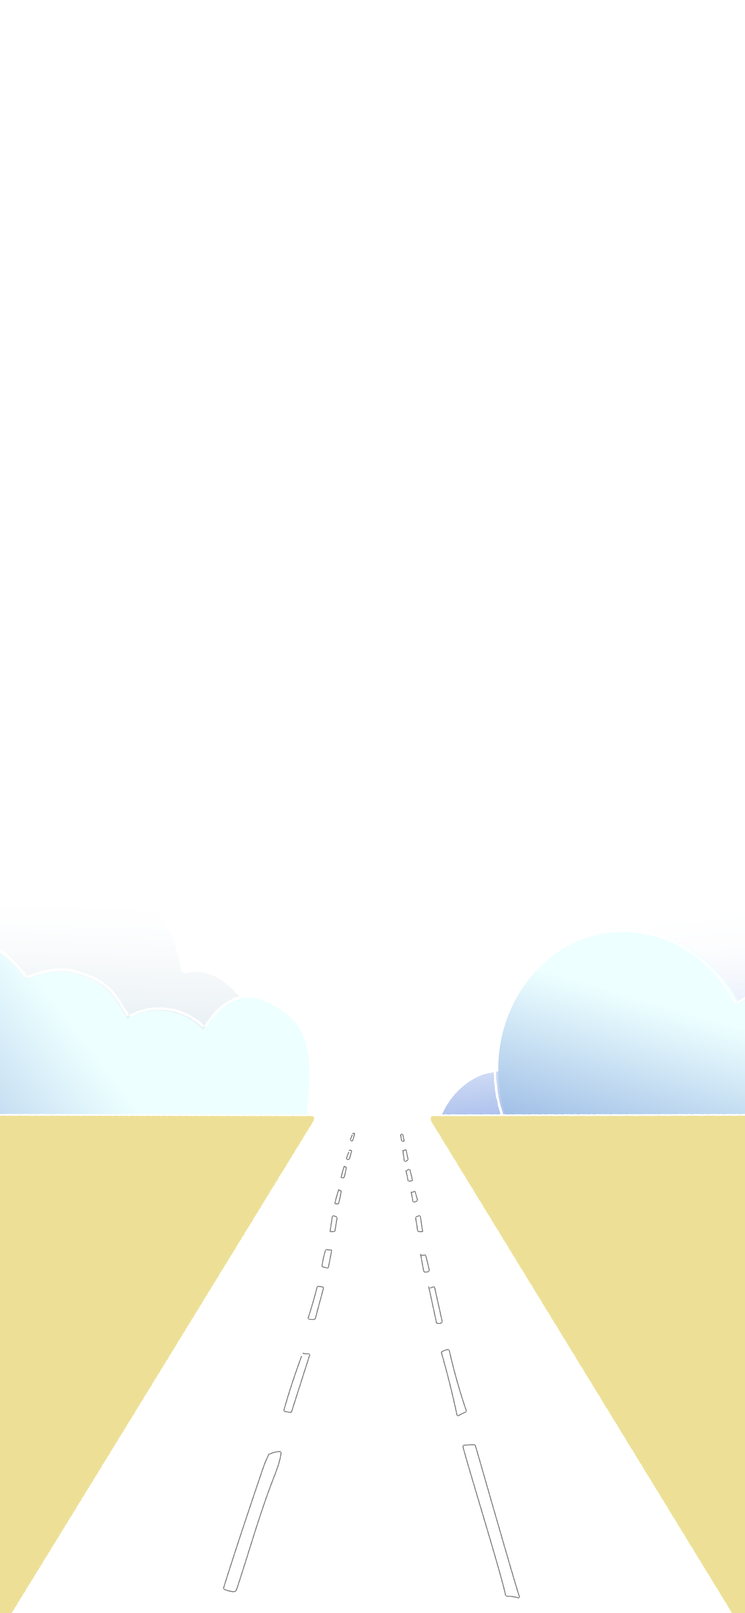
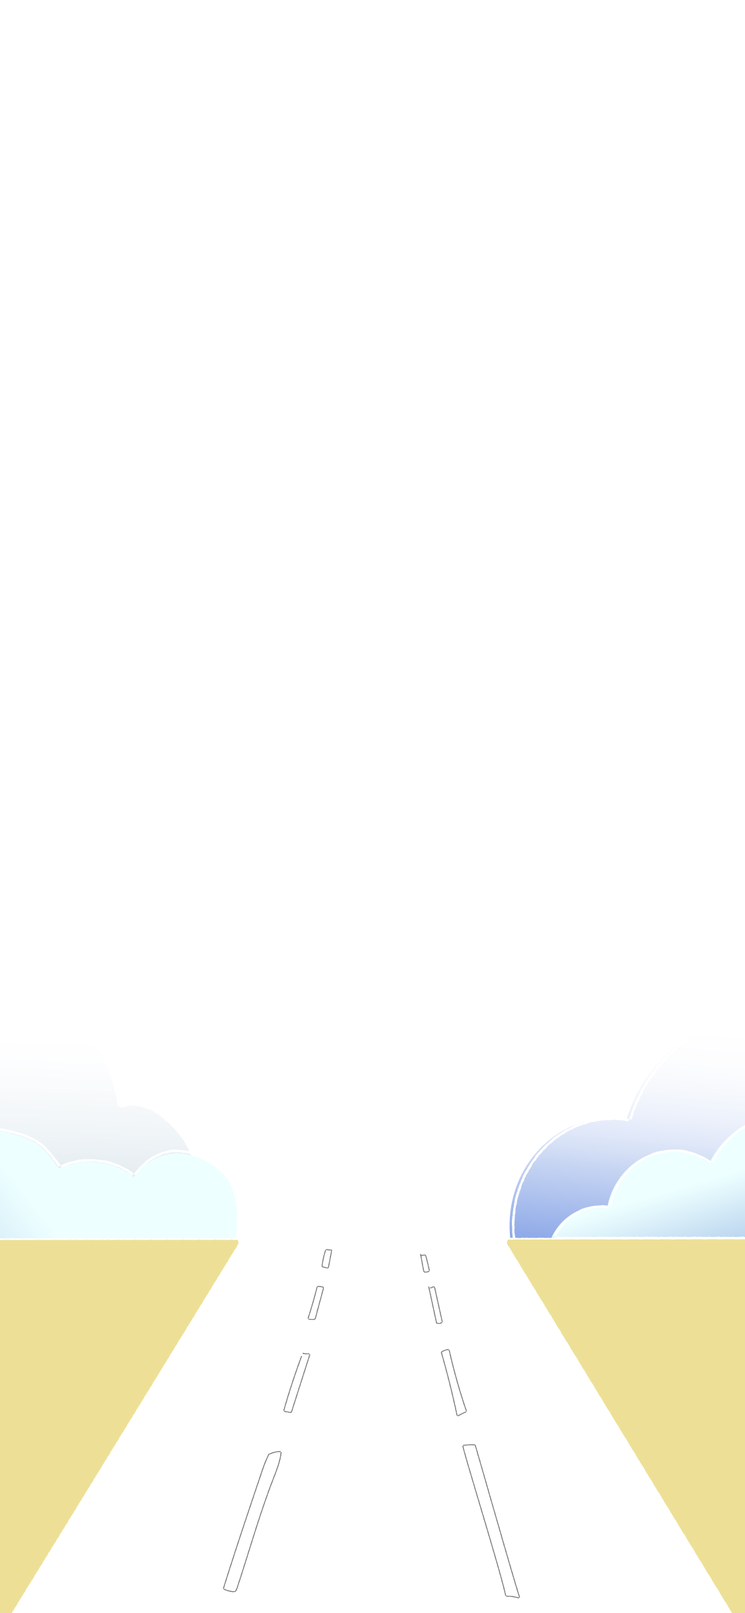
no message

Changed region(s): [[0.56, 0.5928, 1.0, 0.78], [0.0, 0.5928, 0.4356, 0.78]]

diff --git a/assets/css/style.min.css b/assets/css/style.min.css
@@ -1,2 +1,2 @@
-html,body{height:100%;min-height:100%}body{font-family:'roboto', 'Noto Sans TC', sans-serif;font-weight:400;font-style:normal;line-height:1.75;color:#222;background-color:#FFFDF0;overflow-x:hidden;padding-top:70px;position:relative}@media only screen and (max-width: 1120px){body{padding-top:56px}}@media (max-width: 1000px){.navbar{background-color:#FFF}}section{padding:120px 0}@media only screen and (max-width: 768px){section{padding:60px 0}}a{text-decoration:none}h1{font-size:32px;font-weight:500;line-height:1.5;margin-bottom:30px;margin-top:0;text-align:center}@media only screen and (max-width: 768px){h1{font-size:28px;line-height:1.3}}h2{font-size:28px;font-weight:500;line-height:1.5;margin-bottom:30px;margin-top:0;text-align:center}@media only screen and (max-width: 768px){h2{font-size:24px;line-height:1.4;margin-bottom:20px}}h3{font-size:20px;font-weight:400}p{font-size:18px;font-weight:300;line-height:1.78;margin-top:0px;margin-bottom:0px}@media only screen and (max-width: 768px){p{line-height:1.7}}p+p{margin-top:30px}h6{font-size:15px;font-weight:200;line-height:1.5}.title{margin-bottom:50px}@media only screen and (max-width: 768px){.title{margin-bottom:26px}}a{-webkit-transition:.3s;transition:.3s}.btn-rounded{background-color:#377CCF;border-radius:50px;margin:30px auto 0;-webkit-transition:background-color .3s;transition:background-color .3s}.btn-rounded a{display:block;color:#fff;letter-spacing:2px;padding:13px 28px 13px 30px;font-size:15px}.btn-rounded:hover{background-color:#6A9ADD}.main-kv{height:100%;background-image:-webkit-gradient(linear, left bottom, left top, from(#EDEDC5), color-stop(50%, #FDC5A2), to(#FFEBE9));background-image:linear-gradient(0deg, #EDEDC5 0%, #FDC5A2 50%, #FFEBE9 100%);position:relative;overflow:hidden}.main-kv::after{display:block;content:"";height:100%;background:url(../images/pc-bg.png) center no-repeat;background-size:cover}@media only screen and (max-width: 768px){.main-kv::after{background:url(../images/mb-bg.png) bottom center no-repeat;background-size:cover}}@media only screen and (min-width: 769px) and (max-width: 1000px){.main-kv::after{background:url(../images/mb-bg.png) bottom center no-repeat;background-size:cover}}.main-kv .index-box{text-align:center;position:absolute;top:0;width:100%;height:100vh}.main-kv .index-box .title-wrap{margin-top:8%}.main-kv .index-box .title-wrap .sub-title{background-color:#C1E5E4;padding:12px 26px 11px 21px;border:1px solid #333;border-radius:40px;display:inline-block;line-height:1}.main-kv .index-box .title-wrap .op-title{display:block;margin:24px auto 0;width:310px}@media only screen and (max-width: 768px){.main-kv .index-box .title-wrap{margin-top:60px}.main-kv .index-box .title-wrap .sub-title{padding:12px 24px 12px 20px}.main-kv .index-box .title-wrap .op-title{width:260px;margin-top:16px}}.main-kv .arrow-block{position:absolute;bottom:14px;left:50%;display:-webkit-box;display:-ms-flexbox;display:flex;white-space:nowrap;-webkit-transform:translateX(-50%);transform:translateX(-50%)}.main-kv .arrow-block .op-arrow{-webkit-box-flex:1;-ms-flex:1 0 0%;flex:1 0 0%;-ms-flex-negative:0;flex-shrink:0}.main-kv .arrow-block .op-arrow img{width:100%}.main-kv .arrow-block .op-arrow:nth-child(1){opacity:0;-webkit-animation-name:arrow-1;animation-name:arrow-1;-webkit-animation-duration:6s;animation-duration:6s;-webkit-animation-iteration-count:infinite;animation-iteration-count:infinite}@-webkit-keyframes arrow-1{0%{opacity:0}25%{opacity:1}50%{opacity:1}75%{opacity:1}100%{opacity:0}}@keyframes arrow-1{0%{opacity:0}25%{opacity:1}50%{opacity:1}75%{opacity:1}100%{opacity:0}}.main-kv .arrow-block .op-arrow:nth-child(2){opacity:1;-webkit-animation-name:arrow-2;animation-name:arrow-2;-webkit-animation-duration:6s;animation-duration:6s;-webkit-animation-iteration-count:infinite;animation-iteration-count:infinite}@-webkit-keyframes arrow-2{0%{opacity:1}25%{opacity:1}50%{opacity:0}75%{opacity:0}100%{opacity:1}}@keyframes arrow-2{0%{opacity:1}25%{opacity:1}50%{opacity:0}75%{opacity:0}100%{opacity:1}}.main-kv .arrow-block .op-arrow:nth-child(3){opacity:0;-webkit-animation-name:arrow-3;animation-name:arrow-3;-webkit-animation-duration:6s;animation-duration:6s;-webkit-animation-iteration-count:infinite;animation-iteration-count:infinite}@-webkit-keyframes arrow-3{0%{opacity:0}25%{opacity:0}50%{opacity:0}75%{opacity:1}100%{opacity:1}}@keyframes arrow-3{0%{opacity:0}25%{opacity:0}50%{opacity:0}75%{opacity:1}100%{opacity:1}}@media only screen and (min-width: 769px){.main-kv .arrow-block{width:63vh}}@media only screen and (max-width: 768px){.main-kv .arrow-block{width:75%}}.main-kv .op-cloud{position:absolute;display:inline-block}.main-kv .op-cloud.cloud-1{width:180px;height:auto;top:13%;left:20%;-webkit-animation-name:cloud-1;animation-name:cloud-1;-webkit-animation-duration:12s;animation-duration:12s;-webkit-animation-iteration-count:infinite;animation-iteration-count:infinite}@-webkit-keyframes cloud-1{0%{top:13%}50%{top:18%}100%{top:13%}}@keyframes cloud-1{0%{top:13%}50%{top:18%}100%{top:13%}}@media only screen and (max-width: 768px){.main-kv .op-cloud.cloud-1{left:-28px;width:150px}}.main-kv .op-cloud.cloud-2{width:172px;height:auto;top:20%;right:15%;-webkit-animation-name:cloud-2;animation-name:cloud-2;-webkit-animation-duration:10s;animation-duration:10s;-webkit-animation-iteration-count:infinite;animation-iteration-count:infinite}@-webkit-keyframes cloud-2{0%{top:20%}50%{top:16%}100%{top:20%}}@keyframes cloud-2{0%{top:20%}50%{top:16%}100%{top:20%}}@media only screen and (max-width: 768px){.main-kv .op-cloud.cloud-2{right:-70px;width:140px}}.main-kv .op-cloud img{width:100%}.main-container{position:relative}.main-container .fix-right{position:fixed;bottom:40px;right:20px;z-index:20;display:none;-webkit-transition:bottom 0.3s;transition:bottom 0.3s}.main-container .fix-right .close-btn{position:absolute;right:0px;top:4px;cursor:pointer}.main-container .fix-right a{margin-top:6px;margin-right:6px;display:block;color:#377CCF}.main-container .fix-right a:hover{color:#6A9ADD}.main-container .fix-right .book-img{width:100px;cursor:pointer}@media only screen and (max-width: 768px){.main-container .fix-right{bottom:30px;right:10px}.main-container .fix-right.scroll{bottom:130px}}.exam{background-color:#EDEDC5;padding-bottom:60px}@media only screen and (max-width: 768px){.exam{padding-bottom:0}}.cerebrity{background-image:-webkit-gradient(linear, left bottom, left top, from(#FFECEA), to(#EDEDC5));background-image:linear-gradient(0deg, #FFECEA 0%, #EDEDC5 100%)}.cerebrity .cerebrity-block{position:relative}.cerebrity .side-nav ul{margin:0;padding:0;position:-webkit-sticky;position:sticky;top:80px}.cerebrity .side-nav li{margin-bottom:26px;text-align:center}.cerebrity .side-nav li img{width:80px;border-radius:50%;border:2px solid #91989F;-webkit-transition:border .3s;transition:border .3s}.cerebrity .side-nav li img.active{border:2px solid #377CCF}.cerebrity .side-nav li h6{color:#91989F;margin-top:4px;-webkit-transition:color .3s;transition:color .3s}.cerebrity .side-nav li.active img{border:2px solid #377CCF}.cerebrity .side-nav li.active h6{color:#377CCF;font-weight:400}.cerebrity .side-nav li:hover img{border:2px solid #377CCF}.cerebrity .side-nav li:hover h6{color:#377CCF;font-weight:400}@media only screen and (max-width: 768px){.cerebrity .side-nav{position:fixed;display:none;bottom:0;left:0;width:100%;text-align:center;background-color:#FDC5A2;-webkit-box-shadow:0 -1px 8px #d2b29d;box-shadow:0 -1px 8px #d2b29d}.cerebrity .side-nav ul{padding-left:0;margin:auto}.cerebrity .side-nav ul li{display:inline-block;margin:10px 16px}.cerebrity .side-nav ul li img{width:70px}.cerebrity .side-nav ul li h6{color:#484b4e;font-size:13px;margin-bottom:0}}@media only screen and (min-width: 769px) and (max-width: 1000px){.cerebrity .side-nav{position:fixed;display:none;bottom:0;left:0;width:100%;text-align:center;background-color:#FDC5A2;-webkit-box-shadow:0 -1px 8px #d2b29d;box-shadow:0 -1px 8px #d2b29d}.cerebrity .side-nav ul{padding-left:0;margin:auto}.cerebrity .side-nav ul li{display:inline-block;margin:10px 16px}.cerebrity .side-nav ul li img{width:70px}.cerebrity .side-nav ul li h6{color:#484b4e;font-size:13px;margin-bottom:0}}.cerebrity .cerebrity-img{border-radius:100px;margin-bottom:30px;width:100%}.cerebrity .cerebrity-img::before{content:"";display:block;padding-top:65%}@media only screen and (max-width: 768px){.cerebrity .cerebrity-img{border-radius:70px}.cerebrity .cerebrity-img::before{padding-top:140%}}.cerebrity .cerebrity-1{margin-bottom:130px}.cerebrity .cerebrity-1 .cerebrity-img{background-position:center;background-repeat:no-repeat;background-image:url(../images/p1.jpg);background-size:100% auto}@media only screen and (max-width: 768px){.cerebrity .cerebrity-1 .cerebrity-img{background-image:url(../images/p1-mb.jpg);background-size:100% auto}}.cerebrity .cerebrity-2{margin-bottom:130px}.cerebrity .cerebrity-2 .cerebrity-img{background-position:center;background-repeat:no-repeat;background-image:url(../images/p2.jpg);background-size:100% auto}@media only screen and (max-width: 768px){.cerebrity .cerebrity-2 .cerebrity-img{background-image:url(../images/p2-mb.jpg);background-size:100% auto}}.cerebrity .cerebrity-3 .cerebrity-img{background-position:center;background-repeat:no-repeat;background-image:url(../images/p3.jpg);background-size:100% auto}@media only screen and (max-width: 768px){.cerebrity .cerebrity-3 .cerebrity-img{background-image:url(../images/p3-mb.jpg);background-size:100% auto}}.cerebrity .profession-title{font-size:18px;font-weight:300}.cerebrity h4{text-align:center;margin-bottom:20px}.cerebrity .line{width:calc(50% - 1px);height:50px;border-right:2px solid #377CCF;margin-bottom:20px}.cerebrity .qoute{text-align:center;font-family:source-han-serif-tc, serif;font-size:28px;line-height:1.4;color:#377CCF;margin-bottom:40px}.cerebrity .qoute span{display:block}@media only screen and (max-width: 768px){.cerebrity .line{height:30px}.cerebrity .qoute{font-size:24px}.cerebrity .qoute span{display:inline}}.cerebrity .todo-block{border:1px solid #377CCF;border-radius:100px;padding:40px 60px 46px;margin:40px auto 26px}.cerebrity .todo-block .todo-title .en{font-size:18px;font-weight:700;color:#377CCF;margin-right:14px}.cerebrity .todo-block .todo-title .ch-title{font-size:24px;font-weight:500;color:#000;border-bottom:2px solid #000}.cerebrity .todo-block .todo-p{margin-top:20px}.cerebrity .todo-block .todo-p p{font-size:16px;color:#636C6B}.cerebrity .todo-block .todo-p p+p{margin-top:20px}@media only screen and (max-width: 768px){.cerebrity .todo-block{border-radius:70px;padding:30px 40px 30px}}.cerebrity .more a{color:#377CCF;border-bottom:2px solid #377CCF;padding-bottom:2px}.cerebrity .more a:hover{color:#6A9ADD}.video{background-color:#FFEBEA}.act_bag h2{color:#377CCF}.act_bag .bag-img{width:100%}.act_bag .bag-img::before{content:"";display:block;padding-top:56%}.act_bag .bag-1{background:url(../images/bag/bag1.png) no-repeat;background-size:100% auto}.act_bag .bag-2{background:url(../images/bag/bag2.png) no-repeat;background-size:100% auto}.act_bag .bag-3{background:url(../images/bag/bag3.png) no-repeat;background-size:100% auto}.act_bag .bag-4{background:url(../images/bag/bag4.png) no-repeat;background-size:100% auto}.act_bag .bag-5{background:url(../images/bag/bag5.png) no-repeat;background-size:100% auto}@media only screen and (max-width: 768px){.act_bag .bag-img::before{padding-top:170%}.act_bag .bag-1{background:url(../images/bag/bag1-mb.png) no-repeat;background-size:85% auto;background-position:center}.act_bag .bag-2{background:url(../images/bag/bag2-mb.png) no-repeat;background-size:85% auto;background-position:center}.act_bag .bag-3{background:url(../images/bag/bag3-mb.png) no-repeat;background-size:85% auto;background-position:center}.act_bag .bag-4{background:url(../images/bag/bag4-mb.png) no-repeat;background-size:85% auto;background-position:center}.act_bag .bag-5{background:url(../images/bag/bag5-mb.png) no-repeat;background-size:85% auto;background-position:center}}.act_question .title h6{margin-top:30px}.act_question .last-h6{margin-top:50px;text-align:center}.act_question .question{margin-bottom:30px}.act_question .question img{display:inline-block;width:68px;margin-right:16px}.act_question .question h2{display:inline-block;margin-bottom:0;vertical-align:middle;color:#ED9D57}.act_question .question h2.even-h2{color:#6A9ADD}@media only screen and (max-width: 768px){.act_question .question{margin-bottom:20px}.act_question .question img{display:block;width:48px;margin:0 auto 10px}}.act_question .question5 h2{width:calc(100% - 90px)}.act_question .answer{margin-bottom:130px}.act_question .answer ul{padding-left:0;margin-bottom:0}@media only screen and (max-width: 768px){.act_question .answer{margin-bottom:80px}}.act_question .answer.answer1 li{display:inline-block;width:32.5%;padding:0 30px;vertical-align:top}.act_question .answer.answer1 li h3{text-align:center;color:#ED9D57}.act_question .answer.answer1 li p{line-height:1.5}.act_question .answer.answer1 li img{width:120px;display:block;margin:0 auto 20px}@media only screen and (max-width: 768px){.act_question .answer.answer1 li{display:block;width:100%;padding:0}.act_question .answer.answer1 li h3{text-align:left}.act_question .answer.answer1 li img{width:31%;display:inline-block}.act_question .answer.answer1 li .txt-wrap{width:65%;display:inline-block;vertical-align:middle;padding-left:15px}.act_question .answer.answer1 li+li{margin-top:20px}}.act_question .answer.answer3 li.answer-block{display:inline-block;width:31%;padding:28px 30px;vertical-align:top;border:1px solid #ED9D57;border-radius:50px;margin:20px 1%}.act_question .answer.answer3 li.answer-block:nth-child(1),.act_question .answer.answer3 li.answer-block:nth-child(2),.act_question .answer.answer3 li.answer-block:nth-child(3){min-height:324.5px}.act_question .answer.answer3 li.answer-block:nth-child(4){width:42%}.act_question .answer.answer3 li.answer-block:nth-child(5){width:53.5%}.act_question .answer.answer3 li.answer-block h3{text-align:center;color:#ED9D57}.act_question .answer.answer3 li.answer-block p{line-height:1.5}.act_question .answer.answer3 li.answer-block img{width:120px;display:block;margin:0 auto 20px}.act_question .answer.answer3 li.answer-block ul.answer-list{font-size:18px;font-weight:300;list-style:decimal;padding-left:20px}.act_question .answer.answer3 li.answer-block ul.answer-list li{list-style:decimal}.act_question .answer.answer3 li.answer-block ul.answer-list.answer-list-last li{display:inline-block;margin-right:30px}@media (max-width: 1000px){.act_question .answer.answer3 li.answer-block{display:block;width:95%;padding:20px 20px;margin:0 auto 20px;line-height:1.5}.act_question .answer.answer3 li.answer-block:nth-child(1),.act_question .answer.answer3 li.answer-block:nth-child(2),.act_question .answer.answer3 li.answer-block:nth-child(3){min-height:auto}.act_question .answer.answer3 li.answer-block:nth-child(4){width:95%}.act_question .answer.answer3 li.answer-block:nth-child(5){width:95%}.act_question .answer.answer3 li.answer-block h3{text-align:left}.act_question .answer.answer3 li.answer-block img{width:30%;display:inline-block}.act_question .answer.answer3 li.answer-block .txt-wrap{width:68%;display:inline-block;vertical-align:middle;padding-left:20px}.act_question .answer.answer3 li.answer-block ul.answer-list{padding-left:18px}.act_question .answer.answer3 li.answer-block ul.answer-list.answer-list-last{padding-left:0px}.act_question .answer.answer3 li.answer-block ul.answer-list.answer-list-last li{display:block;margin-right:0px}.act_question .answer.answer3 li+li{margin-top:2px}}.act_question .answer.answer5{margin-top:30px;margin-bottom:0}.act_question .answer.answer5 li{display:inline-block;width:49%;vertical-align:top}.act_question .answer.answer5 li:nth-child(1){padding-right:20px}.act_question .answer.answer5 li:nth-child(2){padding-left:20px}.act_question .answer.answer5 li h3{text-align:center;color:#ED9D57}.act_question .answer.answer5 li p{line-height:1.5}.act_question .answer.answer5 li p+p{margin-top:8px}.act_question .answer.answer5 li img{width:120px;display:block;margin:0 auto 20px}@media only screen and (max-width: 768px){.act_question .answer.answer5{margin-bottom:0px}.act_question .answer.answer5 li{display:block;width:100%;padding:0}.act_question .answer.answer5 li:nth-child(1){padding-right:0px}.act_question .answer.answer5 li:nth-child(2){padding-left:0px}.act_question .answer.answer5 li h3{text-align:left}.act_question .answer.answer5 li img{width:31%;display:inline-block}.act_question .answer.answer5 li .txt-wrap{width:67%;display:inline-block;vertical-align:middle;padding-left:15px}.act_question .answer.answer5 li+li{margin-top:30px}}.act_question .answer.answer2{width:100%;background:url(../images/chart/chart2.png) no-repeat;background-size:100% auto}.act_question .answer.answer2::before{display:block;content:" ";padding-top:101%}@media only screen and (max-width: 768px){.act_question .answer.answer2{background:url(../images/chart/chart2-mb.png) no-repeat;background-size:80% auto;background-position:center}.act_question .answer.answer2::before{padding-top:337%}}.act_question .answer.answer4{width:100%;background:url(../images/chart/chart3.png) no-repeat;background-size:100% auto}.act_question .answer.answer4::before{display:block;content:" ";padding-top:130%}@media only screen and (max-width: 768px){.act_question .answer.answer4{background:url(../images/chart/chart3-mb.png) no-repeat;background-size:90% auto;background-position:center}.act_question .answer.answer4::before{padding-top:310%}}.faq .accordion__group .accordion__item:nth-child(odd){background-color:#FFF2EA}.faq .accordion__group .accordion__item::after,.faq .accordion__group .accordion__item::before{content:"";display:block;clear:both}.faq .accordion__group .accordion__item__header{position:relative;padding:0.65em 1.125em;color:#171717;cursor:pointer;-webkit-transition:background-color, .3s;transition:background-color, .3s}@media only screen and (max-width: 768px){.faq .accordion__group .accordion__item__header{padding-right:1.75em}}.faq .accordion__group .accordion__item__header span.number{position:relative;width:2rem;margin-right:8px}.faq .accordion__group .accordion__item__header span.txt{width:calc(100% - 3rem)}.faq .accordion__group .accordion__item__header img.icon{position:absolute;top:0;right:0;display:none;padding:1.1355em 1rem}.faq .accordion__group .accordion__item__header img.icon.active{display:block}.faq .accordion__group .accordion__item__panel{display:none;position:relative;padding:0.25rem 1rem 1rem 2.5rem}@media only screen and (max-width: 768px){.faq .accordion__group .accordion__item__panel{padding:0.25rem 1rem 1rem 1.25rem}}.faq .mt0,.faq .my0{margin-top:0}.faq p a{color:#377CCF;border-bottom:2px solid #377CCF;margin:0 2px}.faq p+p{margin-top:0}.publication .public-block{padding:0 20px;text-align:center}.publication .public-block img{border-radius:30px;width:100%}.publication .public-block a{color:#373737}.publication .public-block a:hover{color:#377CCF}.publication .public-block p{margin-top:12px;font-weight:400;line-height:1.5}.publication .public-block p span{display:block}@media only screen and (max-width: 768px){.publication .public-block p span{display:inline}}.publication .public-block .more{margin-top:10px}.publication .public-block .more span{color:#377CCF;border-bottom:2px solid #377CCF;padding-bottom:2px}@media only screen and (max-width: 768px){.publication .public-block{margin-bottom:30px}.publication .public-block:nth-last-child(1){margin-bottom:0}}.cooperate img{width:100%}.sp .sp-logo{width:120px;height:auto;margin:18px 30px}@media only screen and (max-width: 768px){.sp .sp-logo{width:100px;margin:12px 20px}}.w-full{width:100%}.max-w-800px{max-width:800px}.m-auto{margin:auto}.fb_iframe_widget_fluid_desktop iframe{width:100% !important}.buy-block{padding:100px 0}.buy-block .row{-webkit-box-align:center;-ms-flex-align:center;align-items:center}.buy-block .cover img{width:100%}.buy-block .text{text-align:left;letter-spacing:2px}.buy-block .text h3{font-size:24px;line-height:1.5;font-family:source-han-serif-tc, serif;margin-bottom:18px}.buy-block .text h5{font-size:15px}.buy-block .text h5 a{color:#377CCF}.buy-block .text h5 a img{margin-left:8px;margin-bottom:2px;height:15px}.buy-block .text h5 a:hover{color:#000}@media only screen and (max-width: 768px){.buy-block{padding:80px 0}.buy-block .text{text-align:center;margin-top:20px}}.progress-group{color:#E28029}.progress-group .progress-line{height:5px;background-color:#ccc}.progress-group .progress-line .line{width:16.666666666666667%;height:100%;background-color:#E28029;-webkit-transition:width 0.3s;transition:width 0.3s}.quiz .btn,.result .btn{position:relative}.quiz .btn:not(.btn-link),.result .btn:not(.btn-link){border-radius:100px;border:0;white-space:break-spaces}.quiz .btn.btn-link,.result .btn.btn-link{color:#999;text-decoration:underline;text-underline-position:under}.quiz .btn.btn-link:hover,.result .btn.btn-link:hover{color:#666}.quiz .btn:focus,.result .btn:focus{-webkit-box-shadow:none;box-shadow:none}.quiz-group{overflow:hidden}.quiz-group .quiz-wrap{display:-webkit-box;display:-ms-flexbox;display:flex;width:600%;padding-top:3rem;-webkit-transition:margin-left 0.3s;transition:margin-left 0.3s}.quiz{-webkit-box-flex:1;-ms-flex:1 0 0%;flex:1 0 0%;-ms-flex-negative:0;flex-shrink:0}.quiz .btn:not(.btn-link){color:#E28029;font-size:1.125rem;background-color:white}.quiz .btn:not(.btn-link):hover{color:white;background-color:#e89b56}.quiz .btn:not(.btn-link) img{position:absolute;bottom:-15px;right:20px;width:55px;display:none}.quiz.quiz-1 .btn-link{display:none !important}.result{display:none}.result em,.result .type{color:#E28029}.result .btn-primary{color:white;background-color:#E28029;-webkit-box-shadow:0 0 10px rgba(0,0,0,0.2);box-shadow:0 0 10px rgba(0,0,0,0.2)}.result .btn-primary:hover{background-color:#be671a}
+html,body{height:100%;min-height:100%}body{font-family:'roboto', 'Noto Sans TC', sans-serif;font-weight:400;font-style:normal;line-height:1.75;color:#222;background-color:#FFFDF0;overflow-x:hidden;padding-top:70px;position:relative}@media only screen and (max-width: 1120px){body{padding-top:56px}}@media (max-width: 1000px){.navbar{background-color:#FFF}}section{padding:120px 0}@media only screen and (max-width: 768px){section{padding:60px 0}}a{text-decoration:none}h1{font-size:32px;font-weight:500;line-height:1.5;margin-bottom:30px;margin-top:0;text-align:center}@media only screen and (max-width: 768px){h1{font-size:28px;line-height:1.3}}h2{font-size:28px;font-weight:500;line-height:1.5;margin-bottom:30px;margin-top:0;text-align:center}@media only screen and (max-width: 768px){h2{font-size:24px;line-height:1.4;margin-bottom:20px}}h3{font-size:20px;font-weight:400}p{font-size:18px;font-weight:300;line-height:1.78;margin-top:0px;margin-bottom:0px}@media only screen and (max-width: 768px){p{line-height:1.7}}p+p{margin-top:30px}h6{font-size:15px;font-weight:200;line-height:1.5}.title{margin-bottom:50px}@media only screen and (max-width: 768px){.title{margin-bottom:26px}}a{-webkit-transition:.3s;transition:.3s}.btn-rounded{background-color:#377CCF;border-radius:50px;margin:30px auto 0;-webkit-transition:background-color .3s;transition:background-color .3s}.btn-rounded a{display:block;color:#fff;letter-spacing:2px;padding:13px 28px 13px 30px;font-size:15px}.btn-rounded:hover{background-color:#6A9ADD}.main-kv{height:100%;background-image:-webkit-gradient(linear, left bottom, left top, from(#EDEDC5), color-stop(50%, #FDC5A2), to(#FFEBE9));background-image:linear-gradient(0deg, #EDEDC5 0%, #FDC5A2 50%, #FFEBE9 100%);position:relative;overflow:hidden}.main-kv::after{display:block;content:"";height:100%;background:url(../images/pc-bg.png) center no-repeat;background-size:cover}@media only screen and (max-width: 768px){.main-kv::after{background:url(../images/mb-bg.png) bottom center no-repeat;background-size:cover}}@media only screen and (min-width: 769px) and (max-width: 1000px){.main-kv::after{background:url(../images/mb-bg.png) bottom center no-repeat;background-size:cover}}.main-kv .index-box{text-align:center;position:absolute;top:0;width:100%;height:100vh}.main-kv .index-box .title-wrap{margin-top:8%}.main-kv .index-box .title-wrap .sub-title{background-color:#C1E5E4;padding:12px 26px 11px 21px;border:1px solid #333;border-radius:40px;display:inline-block;line-height:1}.main-kv .index-box .title-wrap .op-title{display:block;margin:24px auto 0;width:310px}@media only screen and (max-width: 768px){.main-kv .index-box .title-wrap{margin-top:60px}.main-kv .index-box .title-wrap .sub-title{padding:12px 24px 12px 20px}.main-kv .index-box .title-wrap .op-title{width:260px;margin-top:16px}}.main-kv .arrow-block{position:absolute;bottom:14px;left:50%;display:-webkit-box;display:-ms-flexbox;display:flex;white-space:nowrap;-webkit-transform:translateX(-50%);transform:translateX(-50%)}.main-kv .arrow-block .op-arrow{-webkit-box-flex:1;-ms-flex:1 0 0%;flex:1 0 0%;-ms-flex-negative:0;flex-shrink:0}.main-kv .arrow-block .op-arrow img{width:100%}.main-kv .arrow-block .op-arrow:nth-child(1){opacity:0;-webkit-animation-name:arrow-1;animation-name:arrow-1;-webkit-animation-duration:6s;animation-duration:6s;-webkit-animation-iteration-count:infinite;animation-iteration-count:infinite}@-webkit-keyframes arrow-1{0%{opacity:0}25%{opacity:1}50%{opacity:1}75%{opacity:1}100%{opacity:0}}@keyframes arrow-1{0%{opacity:0}25%{opacity:1}50%{opacity:1}75%{opacity:1}100%{opacity:0}}.main-kv .arrow-block .op-arrow:nth-child(2){opacity:1;-webkit-animation-name:arrow-2;animation-name:arrow-2;-webkit-animation-duration:6s;animation-duration:6s;-webkit-animation-iteration-count:infinite;animation-iteration-count:infinite}@-webkit-keyframes arrow-2{0%{opacity:1}25%{opacity:1}50%{opacity:0}75%{opacity:0}100%{opacity:1}}@keyframes arrow-2{0%{opacity:1}25%{opacity:1}50%{opacity:0}75%{opacity:0}100%{opacity:1}}.main-kv .arrow-block .op-arrow:nth-child(3){opacity:0;-webkit-animation-name:arrow-3;animation-name:arrow-3;-webkit-animation-duration:6s;animation-duration:6s;-webkit-animation-iteration-count:infinite;animation-iteration-count:infinite}@-webkit-keyframes arrow-3{0%{opacity:0}25%{opacity:0}50%{opacity:0}75%{opacity:1}100%{opacity:1}}@keyframes arrow-3{0%{opacity:0}25%{opacity:0}50%{opacity:0}75%{opacity:1}100%{opacity:1}}@media only screen and (min-width: 769px){.main-kv .arrow-block{width:63vh}}@media only screen and (max-width: 768px){.main-kv .arrow-block{width:75%}}.main-kv .op-cloud{position:absolute;display:inline-block}.main-kv .op-cloud.cloud-1{width:180px;height:auto;top:11%;left:20%;-webkit-animation-name:cloud-1;animation-name:cloud-1;-webkit-animation-duration:12s;animation-duration:12s;-webkit-animation-iteration-count:infinite;animation-iteration-count:infinite}@-webkit-keyframes cloud-1{0%{top:11%}50%{top:16%}100%{top:11%}}@keyframes cloud-1{0%{top:11%}50%{top:16%}100%{top:11%}}@media only screen and (max-width: 768px){.main-kv .op-cloud.cloud-1{left:-28px;width:150px}}.main-kv .op-cloud.cloud-2{width:172px;height:auto;top:25%;right:15%;-webkit-animation-name:cloud-2;animation-name:cloud-2;-webkit-animation-duration:10s;animation-duration:10s;-webkit-animation-iteration-count:infinite;animation-iteration-count:infinite}@-webkit-keyframes cloud-2{0%{top:25%}50%{top:21%}100%{top:25%}}@keyframes cloud-2{0%{top:25%}50%{top:21%}100%{top:25%}}@media only screen and (max-width: 768px){.main-kv .op-cloud.cloud-2{right:-70px;width:140px}}.main-kv .op-cloud img{width:100%}.main-container{position:relative}.main-container .fix-right{position:fixed;bottom:40px;right:20px;z-index:20;display:none;-webkit-transition:bottom 0.3s;transition:bottom 0.3s}.main-container .fix-right .close-btn{position:absolute;right:0px;top:4px;cursor:pointer}.main-container .fix-right a{margin-top:6px;margin-right:6px;display:block;color:#377CCF}.main-container .fix-right a:hover{color:#6A9ADD}.main-container .fix-right .book-img{width:100px;cursor:pointer}@media only screen and (max-width: 768px){.main-container .fix-right{bottom:30px;right:10px}.main-container .fix-right.scroll{bottom:130px}}.exam{background-color:#EDEDC5;padding-bottom:60px}@media only screen and (max-width: 768px){.exam{padding-bottom:0}}.cerebrity{background-image:-webkit-gradient(linear, left bottom, left top, from(#FFECEA), to(#EDEDC5));background-image:linear-gradient(0deg, #FFECEA 0%, #EDEDC5 100%)}.cerebrity .cerebrity-block{position:relative}.cerebrity .side-nav ul{margin:0;padding:0;position:-webkit-sticky;position:sticky;top:80px}.cerebrity .side-nav li{margin-bottom:26px;text-align:center}.cerebrity .side-nav li img{width:80px;border-radius:50%;border:2px solid #91989F;-webkit-transition:border .3s;transition:border .3s}.cerebrity .side-nav li img.active{border:2px solid #377CCF}.cerebrity .side-nav li h6{color:#91989F;margin-top:4px;-webkit-transition:color .3s;transition:color .3s}.cerebrity .side-nav li.active img{border:2px solid #377CCF}.cerebrity .side-nav li.active h6{color:#377CCF;font-weight:400}.cerebrity .side-nav li:hover img{border:2px solid #377CCF}.cerebrity .side-nav li:hover h6{color:#377CCF;font-weight:400}@media only screen and (max-width: 768px){.cerebrity .side-nav{position:fixed;display:none;bottom:0;left:0;width:100%;text-align:center;background-color:#FDC5A2;-webkit-box-shadow:0 -1px 8px #d2b29d;box-shadow:0 -1px 8px #d2b29d}.cerebrity .side-nav ul{padding-left:0;margin:auto}.cerebrity .side-nav ul li{display:inline-block;margin:10px 16px}.cerebrity .side-nav ul li img{width:70px}.cerebrity .side-nav ul li h6{color:#484b4e;font-size:13px;margin-bottom:0}}@media only screen and (min-width: 769px) and (max-width: 1000px){.cerebrity .side-nav{position:fixed;display:none;bottom:0;left:0;width:100%;text-align:center;background-color:#FDC5A2;-webkit-box-shadow:0 -1px 8px #d2b29d;box-shadow:0 -1px 8px #d2b29d}.cerebrity .side-nav ul{padding-left:0;margin:auto}.cerebrity .side-nav ul li{display:inline-block;margin:10px 16px}.cerebrity .side-nav ul li img{width:70px}.cerebrity .side-nav ul li h6{color:#484b4e;font-size:13px;margin-bottom:0}}.cerebrity .cerebrity-img{border-radius:100px;margin-bottom:30px;width:100%}.cerebrity .cerebrity-img::before{content:"";display:block;padding-top:65%}@media only screen and (max-width: 768px){.cerebrity .cerebrity-img{border-radius:70px}.cerebrity .cerebrity-img::before{padding-top:140%}}.cerebrity .cerebrity-1{margin-bottom:130px}.cerebrity .cerebrity-1 .cerebrity-img{background-position:center;background-repeat:no-repeat;background-image:url(../images/p1.jpg);background-size:100% auto}@media only screen and (max-width: 768px){.cerebrity .cerebrity-1 .cerebrity-img{background-image:url(../images/p1-mb.jpg);background-size:100% auto}}.cerebrity .cerebrity-2{margin-bottom:130px}.cerebrity .cerebrity-2 .cerebrity-img{background-position:center;background-repeat:no-repeat;background-image:url(../images/p2.jpg);background-size:100% auto}@media only screen and (max-width: 768px){.cerebrity .cerebrity-2 .cerebrity-img{background-image:url(../images/p2-mb.jpg);background-size:100% auto}}.cerebrity .cerebrity-3 .cerebrity-img{background-position:center;background-repeat:no-repeat;background-image:url(../images/p3.jpg);background-size:100% auto}@media only screen and (max-width: 768px){.cerebrity .cerebrity-3 .cerebrity-img{background-image:url(../images/p3-mb.jpg);background-size:100% auto}}.cerebrity .profession-title{font-size:18px;font-weight:300}.cerebrity h4{text-align:center;margin-bottom:20px}.cerebrity .line{width:calc(50% - 1px);height:50px;border-right:2px solid #377CCF;margin-bottom:20px}.cerebrity .qoute{text-align:center;font-family:source-han-serif-tc, serif;font-size:28px;line-height:1.4;color:#377CCF;margin-bottom:40px}.cerebrity .qoute span{display:block}@media only screen and (max-width: 768px){.cerebrity .line{height:30px}.cerebrity .qoute{font-size:24px}.cerebrity .qoute span{display:inline}}.cerebrity .todo-block{border:1px solid #377CCF;border-radius:100px;padding:40px 60px 46px;margin:40px auto 26px}.cerebrity .todo-block .todo-title .en{font-size:18px;font-weight:700;color:#377CCF;margin-right:14px}.cerebrity .todo-block .todo-title .ch-title{font-size:24px;font-weight:500;color:#000;border-bottom:2px solid #000}.cerebrity .todo-block .todo-p{margin-top:20px}.cerebrity .todo-block .todo-p p{font-size:16px;color:#636C6B}.cerebrity .todo-block .todo-p p+p{margin-top:20px}@media only screen and (max-width: 768px){.cerebrity .todo-block{border-radius:70px;padding:30px 40px 30px}}.cerebrity .more a{color:#377CCF;border-bottom:2px solid #377CCF;padding-bottom:2px}.cerebrity .more a:hover{color:#6A9ADD}.video{background-color:#FFEBEA}.act_bag h2{color:#377CCF}.act_bag .bag-img{width:100%}.act_bag .bag-img::before{content:"";display:block;padding-top:56%}.act_bag .bag-1{background:url(../images/bag/bag1.png) no-repeat;background-size:100% auto}.act_bag .bag-2{background:url(../images/bag/bag2.png) no-repeat;background-size:100% auto}.act_bag .bag-3{background:url(../images/bag/bag3.png) no-repeat;background-size:100% auto}.act_bag .bag-4{background:url(../images/bag/bag4.png) no-repeat;background-size:100% auto}.act_bag .bag-5{background:url(../images/bag/bag5.png) no-repeat;background-size:100% auto}@media only screen and (max-width: 768px){.act_bag .bag-img::before{padding-top:170%}.act_bag .bag-1{background:url(../images/bag/bag1-mb.png) no-repeat;background-size:85% auto;background-position:center}.act_bag .bag-2{background:url(../images/bag/bag2-mb.png) no-repeat;background-size:85% auto;background-position:center}.act_bag .bag-3{background:url(../images/bag/bag3-mb.png) no-repeat;background-size:85% auto;background-position:center}.act_bag .bag-4{background:url(../images/bag/bag4-mb.png) no-repeat;background-size:85% auto;background-position:center}.act_bag .bag-5{background:url(../images/bag/bag5-mb.png) no-repeat;background-size:85% auto;background-position:center}}.act_question .title h6{margin-top:30px}.act_question .last-h6{margin-top:50px;text-align:center}.act_question .question{margin-bottom:30px}.act_question .question img{display:inline-block;width:68px;margin-right:16px}.act_question .question h2{display:inline-block;margin-bottom:0;vertical-align:middle;color:#ED9D57}.act_question .question h2.even-h2{color:#6A9ADD}@media only screen and (max-width: 768px){.act_question .question{margin-bottom:20px}.act_question .question img{display:block;width:48px;margin:0 auto 10px}}.act_question .question5 h2{width:calc(100% - 90px)}.act_question .answer{margin-bottom:130px}.act_question .answer ul{padding-left:0;margin-bottom:0}@media only screen and (max-width: 768px){.act_question .answer{margin-bottom:80px}}.act_question .answer.answer1 li{display:inline-block;width:32.5%;padding:0 30px;vertical-align:top}.act_question .answer.answer1 li h3{text-align:center;color:#ED9D57}.act_question .answer.answer1 li p{line-height:1.5}.act_question .answer.answer1 li img{width:120px;display:block;margin:0 auto 20px}@media only screen and (max-width: 768px){.act_question .answer.answer1 li{display:block;width:100%;padding:0}.act_question .answer.answer1 li h3{text-align:left}.act_question .answer.answer1 li img{width:31%;display:inline-block}.act_question .answer.answer1 li .txt-wrap{width:65%;display:inline-block;vertical-align:middle;padding-left:15px}.act_question .answer.answer1 li+li{margin-top:20px}}.act_question .answer.answer3 li.answer-block{display:inline-block;width:31%;padding:28px 30px;vertical-align:top;border:1px solid #ED9D57;border-radius:50px;margin:20px 1%}.act_question .answer.answer3 li.answer-block:nth-child(1),.act_question .answer.answer3 li.answer-block:nth-child(2),.act_question .answer.answer3 li.answer-block:nth-child(3){min-height:324.5px}.act_question .answer.answer3 li.answer-block:nth-child(4){width:42%}.act_question .answer.answer3 li.answer-block:nth-child(5){width:53.5%}.act_question .answer.answer3 li.answer-block h3{text-align:center;color:#ED9D57}.act_question .answer.answer3 li.answer-block p{line-height:1.5}.act_question .answer.answer3 li.answer-block img{width:120px;display:block;margin:0 auto 20px}.act_question .answer.answer3 li.answer-block ul.answer-list{font-size:18px;font-weight:300;list-style:decimal;padding-left:20px}.act_question .answer.answer3 li.answer-block ul.answer-list li{list-style:decimal}.act_question .answer.answer3 li.answer-block ul.answer-list.answer-list-last li{display:inline-block;margin-right:30px}@media (max-width: 1000px){.act_question .answer.answer3 li.answer-block{display:block;width:95%;padding:20px 20px;margin:0 auto 20px;line-height:1.5}.act_question .answer.answer3 li.answer-block:nth-child(1),.act_question .answer.answer3 li.answer-block:nth-child(2),.act_question .answer.answer3 li.answer-block:nth-child(3){min-height:auto}.act_question .answer.answer3 li.answer-block:nth-child(4){width:95%}.act_question .answer.answer3 li.answer-block:nth-child(5){width:95%}.act_question .answer.answer3 li.answer-block h3{text-align:left}.act_question .answer.answer3 li.answer-block img{width:30%;display:inline-block}.act_question .answer.answer3 li.answer-block .txt-wrap{width:68%;display:inline-block;vertical-align:middle;padding-left:20px}.act_question .answer.answer3 li.answer-block ul.answer-list{padding-left:18px}.act_question .answer.answer3 li.answer-block ul.answer-list.answer-list-last{padding-left:0px}.act_question .answer.answer3 li.answer-block ul.answer-list.answer-list-last li{display:block;margin-right:0px}.act_question .answer.answer3 li+li{margin-top:2px}}.act_question .answer.answer5{margin-top:30px;margin-bottom:0}.act_question .answer.answer5 li{display:inline-block;width:49%;vertical-align:top}.act_question .answer.answer5 li:nth-child(1){padding-right:20px}.act_question .answer.answer5 li:nth-child(2){padding-left:20px}.act_question .answer.answer5 li h3{text-align:center;color:#ED9D57}.act_question .answer.answer5 li p{line-height:1.5}.act_question .answer.answer5 li p+p{margin-top:8px}.act_question .answer.answer5 li img{width:120px;display:block;margin:0 auto 20px}@media only screen and (max-width: 768px){.act_question .answer.answer5{margin-bottom:0px}.act_question .answer.answer5 li{display:block;width:100%;padding:0}.act_question .answer.answer5 li:nth-child(1){padding-right:0px}.act_question .answer.answer5 li:nth-child(2){padding-left:0px}.act_question .answer.answer5 li h3{text-align:left}.act_question .answer.answer5 li img{width:31%;display:inline-block}.act_question .answer.answer5 li .txt-wrap{width:67%;display:inline-block;vertical-align:middle;padding-left:15px}.act_question .answer.answer5 li+li{margin-top:30px}}.act_question .answer.answer2{width:100%;background:url(../images/chart/chart2.png) no-repeat;background-size:100% auto}.act_question .answer.answer2::before{display:block;content:" ";padding-top:101%}@media only screen and (max-width: 768px){.act_question .answer.answer2{background:url(../images/chart/chart2-mb.png) no-repeat;background-size:80% auto;background-position:center}.act_question .answer.answer2::before{padding-top:337%}}.act_question .answer.answer4{width:100%;background:url(../images/chart/chart3.png) no-repeat;background-size:100% auto}.act_question .answer.answer4::before{display:block;content:" ";padding-top:130%}@media only screen and (max-width: 768px){.act_question .answer.answer4{background:url(../images/chart/chart3-mb.png) no-repeat;background-size:90% auto;background-position:center}.act_question .answer.answer4::before{padding-top:310%}}.faq .accordion__group .accordion__item:nth-child(odd){background-color:#FFF2EA}.faq .accordion__group .accordion__item::after,.faq .accordion__group .accordion__item::before{content:"";display:block;clear:both}.faq .accordion__group .accordion__item__header{position:relative;padding:0.65em 1.125em;color:#171717;cursor:pointer;-webkit-transition:background-color, .3s;transition:background-color, .3s}@media only screen and (max-width: 768px){.faq .accordion__group .accordion__item__header{padding-right:1.75em}}.faq .accordion__group .accordion__item__header span.number{position:relative;width:2rem;margin-right:8px}.faq .accordion__group .accordion__item__header span.txt{width:calc(100% - 3rem)}.faq .accordion__group .accordion__item__header img.icon{position:absolute;top:0;right:0;display:none;padding:1.1355em 1rem}.faq .accordion__group .accordion__item__header img.icon.active{display:block}.faq .accordion__group .accordion__item__panel{display:none;position:relative;padding:0.25rem 1rem 1rem 2.5rem}@media only screen and (max-width: 768px){.faq .accordion__group .accordion__item__panel{padding:0.25rem 1rem 1rem 1.25rem}}.faq .mt0,.faq .my0{margin-top:0}.faq p a{color:#377CCF;border-bottom:2px solid #377CCF;margin:0 2px}.faq p+p{margin-top:0}.publication .public-block{padding:0 20px;text-align:center}.publication .public-block img{border-radius:30px;width:100%}.publication .public-block a{color:#373737}.publication .public-block a:hover{color:#377CCF}.publication .public-block p{margin-top:12px;font-weight:400;line-height:1.5}.publication .public-block p span{display:block}@media only screen and (max-width: 768px){.publication .public-block p span{display:inline}}.publication .public-block .more{margin-top:10px}.publication .public-block .more span{color:#377CCF;border-bottom:2px solid #377CCF;padding-bottom:2px}@media only screen and (max-width: 768px){.publication .public-block{margin-bottom:30px}.publication .public-block:nth-last-child(1){margin-bottom:0}}.cooperate img{width:100%}.sp .sp-logo{width:120px;height:auto;margin:18px 30px}@media only screen and (max-width: 768px){.sp .sp-logo{width:100px;margin:12px 20px}}.w-full{width:100%}.max-w-800px{max-width:800px}.m-auto{margin:auto}.fb_iframe_widget_fluid_desktop iframe{width:100% !important}.buy-block{padding:100px 0}.buy-block .row{-webkit-box-align:center;-ms-flex-align:center;align-items:center}.buy-block .cover img{width:100%}.buy-block .text{text-align:left;letter-spacing:2px}.buy-block .text h3{font-size:24px;line-height:1.5;font-family:source-han-serif-tc, serif;margin-bottom:18px}.buy-block .text h5{font-size:15px}.buy-block .text h5 a{color:#377CCF}.buy-block .text h5 a img{margin-left:8px;margin-bottom:2px;height:15px}.buy-block .text h5 a:hover{color:#000}@media only screen and (max-width: 768px){.buy-block{padding:80px 0}.buy-block .text{text-align:center;margin-top:20px}}.progress-group{color:#E28029}.progress-group .progress-line{height:5px;background-color:#ccc}.progress-group .progress-line .line{width:16.666666666666667%;height:100%;background-color:#E28029;-webkit-transition:width 0.3s;transition:width 0.3s}.quiz .btn,.result .btn{position:relative}.quiz .btn:not(.btn-link),.result .btn:not(.btn-link){border-radius:100px;border:0;white-space:break-spaces}.quiz .btn.btn-link,.result .btn.btn-link{color:#999;text-decoration:underline;text-underline-position:under}.quiz .btn.btn-link:hover,.result .btn.btn-link:hover{color:#666}.quiz .btn:focus,.result .btn:focus{-webkit-box-shadow:none;box-shadow:none}.quiz-group{overflow:hidden}.quiz-group .quiz-wrap{display:-webkit-box;display:-ms-flexbox;display:flex;width:600%;padding-top:3rem;-webkit-transition:margin-left 0.3s;transition:margin-left 0.3s}.quiz{-webkit-box-flex:1;-ms-flex:1 0 0%;flex:1 0 0%;-ms-flex-negative:0;flex-shrink:0}.quiz .btn:not(.btn-link){color:#E28029;font-size:1.125rem;background-color:white}.quiz .btn:not(.btn-link):hover{color:white;background-color:#e89b56}.quiz .btn:not(.btn-link) img{position:absolute;bottom:-15px;right:20px;width:55px;display:none}.quiz.quiz-1 .btn-link{display:none !important}.result{display:none}.result em,.result .type{color:#E28029}.result .btn-primary{color:white;background-color:#E28029;-webkit-box-shadow:0 0 10px rgba(0,0,0,0.2);box-shadow:0 0 10px rgba(0,0,0,0.2)}.result .btn-primary:hover{background-color:#be671a}
 /*# sourceMappingURL=style.min.css.map */

diff --git a/assets/scss/style.scss b/assets/scss/style.scss
@@ -304,7 +304,7 @@ a {
 		&.cloud-1 {
 			width: 180px;
 			height: auto;
-			top: 13%;
+			top: 11%;
 			left: 20%;
 
 			animation-name:cloud-1;
@@ -312,9 +312,9 @@ a {
 			// animation-timing-function:ease-in;
 			animation-iteration-count:infinite;
 			@keyframes cloud-1{
-				0%{ top:13%; }
-				50%{ top:18%; }
-				100%{ top:13%; }
+				0%{ top:11%; }
+				50%{ top:16%; }
+				100%{ top:11%; }
 			}
 
 			@include mobile {
@@ -325,7 +325,7 @@ a {
 		&.cloud-2 {
 			width: 172px;
 			height: auto;
-			top: 20%;
+			top: 25%;
 			right: 15%;
 
 			animation-name:cloud-2;
@@ -333,9 +333,9 @@ a {
 			// animation-timing-function:ease-in;
 			animation-iteration-count:infinite;
 			@keyframes cloud-2{
-				0%{ top:20%; }
-				50%{ top:16%; }
-				100%{ top:20%; }
+				0%{ top:25%; }
+				50%{ top:21%; }
+				100%{ top:25%; }
 			}
 
 			@include mobile {
